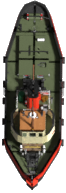
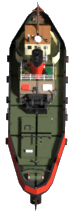
182141749 - Making nested animated components for tugs
https://www.pivotaltracker.com/story/show/182141749

diff --git a/src/components/image-components/water-churn.tsx b/src/components/image-components/water-churn.tsx
@@ -5,6 +5,8 @@ import img from "../../assets/churn-sheet.png";
 export interface WaterChurnProps {
   x: number;
   y: number;
+  play: boolean;
+  rotation: number;
 }
 
 const animationLength = 40;
@@ -18,10 +20,11 @@ for (let index = 0; index < animationLength; index++) {
 }
 const animations = {idle: frames};
 export const WaterChurn = (props: WaterChurnProps) => {
-  const { x, y } = props;
+  const { x, y, play, rotation } = props;
   const [imageTag, setImageTag] = useState<HTMLImageElement|null>(null);
 
-  const spriteRef = useRef<any>();
+  const spriteRefA = useRef<any>();
+  const spriteRefB = useRef<any>();
 
   useEffect(() => {
     const image = new window.Image();
@@ -29,23 +32,42 @@ export const WaterChurn = (props: WaterChurnProps) => {
     image.onload = () => {
       // set image only when it is loaded
       setImageTag(image);
-      spriteRef?.current?.start();
+      if(play) {
+        spriteRefA?.current?.start();
+        spriteRefB?.current?.start();
+      }
     };
   });
 
   return (
-    <Sprite
-      ref={spriteRef}
-      image={imageTag!}
-      animation="idle"
-      frameRate={7}
-      frameIndex={0}
-      animations={animations}
-      x={x}
-      y={y}
-      rotation={90}
-      scale={{x: 0.04, y: 0.04}}
-    />
+    <>
+      <Sprite
+        offset={{x: 100, y:100}}
+        ref={spriteRefA}
+        image={imageTag!}
+        animation="idle"
+        frameRate={20}
+        frameIndex={0}
+        animations={animations}
+        x={x}
+        y={y}
+        rotation={rotation}
+        scale={{x: 0.04, y: 0.04}}
+      />
+      <Sprite
+        offset={{x: 100, y:100}}
+        ref={spriteRefB}
+        image={imageTag!}
+        animation="idle"
+        frameRate={20}
+        frameIndex={20}
+        animations={animations}
+        x={x}
+        y={y}
+        rotation={rotation}
+        scale={{x: 0.04, y: 0.04}}
+      />
+    </>
     // <Image x={ x } y={y} scale={{x: 0.04, y:0.04}} image={imageTag!} />
   );
 };

diff --git a/src/components/image-components/cargo-boat.tsx b/src/components/image-components/cargo-boat.tsx
@@ -1,15 +1,52 @@
 import React from "react";
-import { Image } from "react-konva";
+import { Group, Image } from "react-konva";
 import useImage from "use-image";
 
 import img from "../../assets/boat-tops/cargo.png";
+import { WaterChurn } from "./water-churn";
+import { TugboatSlot } from "./tugboat-slot";
+import { Tugboat } from "./tugboat";
+
+const cargoBoatWidth = 751;
+const cargoHeight = 191;
 
 export interface CargoBoatProps {
   x: number;
   y: number;
+  topBoat?: "big" | "small";
+  bottomBoat?: "big" | "small";
 }
+
 export const CargoBoat = (props: CargoBoatProps) => {
-  const { x, y } = props;
+  const { x, y, topBoat, bottomBoat } = props;
   const [image] = useImage(img);
-  return (<Image x={ x } y={y} scale={{x: 0.04, y:0.04}} image={image} />);
+  const scale = 0.04;
+  const waterOffsetX = (cargoBoatWidth * -1 * scale)/2 - 2;
+  const tugOffsetX = -2;
+  let topGraphic = <TugboatSlot x={tugOffsetX} y={-10} boat="small" />;
+  let bottomGraphic = <TugboatSlot x={tugOffsetX} y={11} boat="small" />;
+  if(topBoat === "big") {
+    topGraphic = <Tugboat x={tugOffsetX} y={-7} orientation="top" size="big"/>;
+  }
+  if(topBoat === "small") {
+    topGraphic = <Tugboat x={tugOffsetX} y={-10} orientation="top" size="small"/>;
+  }
+  if(bottomBoat === "big") {
+    bottomGraphic = <Tugboat x={tugOffsetX -0.5} y={9} orientation="bottom" size="big"/>;
+  }
+  if(bottomBoat === "small") {
+    bottomGraphic = <Tugboat x={tugOffsetX} y={11} orientation="bottom" size="small"/>;
+  }
+  return (
+    <Group x={x} y={y}>
+      <WaterChurn x={waterOffsetX} y={0.5} play={true} rotation={0} />
+      <Image
+        offset={{x: cargoBoatWidth/2, y: cargoHeight/2}}
+        scale={{x: 0.04, y:0.04}}
+        image={image}
+      />
+      {topGraphic}
+      {bottomGraphic}
+    </Group>
+    );
 };

diff --git a/src/components/tugboat-stage.tsx b/src/components/tugboat-stage.tsx
@@ -5,14 +5,11 @@ import { BoatGround } from "./image-components/boat-background";
 import { CargoBoat } from "./image-components/cargo-boat";
 import { PlayIcon } from "./icons/play-icon";
 
-import "./tugboat-stage.scss";
+import "./stage.scss";
 import { IconBack } from "./icons/icon-back";
 // import useAnimationFrame from "../hooks/useAnimationFrame";
 import { MessageArea } from "./message-area";
-import { TugboatChoices } from "./image-components/tugboat-choices";
-import { TugboatSlot } from "./image-components/tugboat-slot";
-import { WaterChurn } from "./image-components/water-churn";
-import { TugboatBottom } from "./image-components/tugboat-top";
+
 
 interface TugboatStageProps {
   sceneWidth: number;
@@ -62,12 +59,7 @@ export const TugboatStage: React.FC<TugboatStageProps> = (props:TugboatStageProp
           >
             <Layer>
               <BoatGround x={0} y={0} />
-              <CargoBoat x={2} y={20} />
-              <TugboatSlot x={10} y={6} boat="small"/>
-              <TugboatSlot x={10} y={30} boat="small" />
-              <TugboatChoices x={45} y={10} />
-              <WaterChurn x={26} y={0} />
-              <TugboatBottom x={20} y={7} />
+              <CargoBoat x={20} y={25} topBoat="big" bottomBoat="big"/>
             </Layer>
         </Stage>
       </div>

diff --git a/src/components/image-components/tugboat.tsx b/src/components/image-components/tugboat.tsx
@@ -1,0 +1,42 @@
+import React from "react";
+import { Group, Image } from "react-konva";
+import useImage from "use-image";
+
+import { WaterChurn } from "./water-churn";
+
+import bottomImg from "../../assets/boat-tops/big-bottom.png";
+import topImg from "../../assets/boat-tops/big-top.png";
+const imageWidth = 70;
+const imageHeight = 200;
+
+export interface Props {
+  x: number;
+  y: number;
+  orientation: "top" | "bottom";
+  size: "big" | "small";
+}
+
+export const Tugboat = (props: Props) => {
+  const { x, y, orientation, size } = props;
+  const imageSource = orientation === "bottom" ? bottomImg : topImg;
+  const waterRotation = orientation === "bottom" ? -90 : 90;
+  const [image] = useImage(imageSource);
+
+  const boatScale = size === "big" ? 0.05 : 0.04;
+  const tugScale = {x: boatScale, y: boatScale};
+  const waterOffsetY = orientation === "bottom"
+    ? imageHeight * boatScale - 1
+    : (imageHeight * boatScale) * -1 + 1;
+  return (
+    <Group>
+      <WaterChurn x={x} y={y+waterOffsetY} play={true} rotation={waterRotation}/>
+      <Image
+        x={x}
+        y={y}
+        offset={{x: imageWidth/2, y:imageHeight/2}}
+        scale={tugScale}
+        image={image}
+      />
+    </Group>
+  );
+};

diff --git a/src/components/stage.scss b/src/components/stage.scss
@@ -2,14 +2,14 @@
 .chrome {
   background-color: #016082;
   color: white;
-  width: 100vw;
+  width: 98vw;
   display: flex;
   flex-direction: column;
   align-items: center;
   justify-content: flex-start;
   padding: 1em;
   max-width: 1024px;
-  height: 100vh;
+  padding-top: 3em;
   .toolbar {
     align-self: stretch;
     display: flex;
@@ -28,6 +28,7 @@
   aspect-ratio: 2/1;
   background-color:white;
   box-sizing: border-box;
+  overflow: hidden;
   align-self: stretch;
 }
 

diff --git a/src/components/image-components/tugboat-slot.tsx b/src/components/image-components/tugboat-slot.tsx
@@ -14,12 +14,14 @@ export const TugboatSlot = (props: TugboatSlotProps) => {
   const { x, y } = props;
   const [image] = useImage(img);
   const scale = 0.05;
-
+  const imageWidth = 124;
+  const imageHeight = 267;
   const imgScale = {x: scale, y: scale};
   return (
     <Image
       x={x}
       y={y}
+      offset= {{x: imageWidth/2, y: imageHeight/2 }}
       scale={imgScale}
       image={image}
     />

diff --git a/src/components/cart-stage.tsx b/src/components/cart-stage.tsx
@@ -8,7 +8,7 @@ import { Cart } from "./image-components/cart";
 import { PlayIcon } from "./icons/play-icon";
 import { Bam } from "./image-components/bam";
 
-import "./cart-stage.scss";
+import "./stage.scss";
 import { IconBack } from "./icons/icon-back";
 import useAnimationFrame from "../hooks/useAnimationFrame";
 import { VelocityPanel } from "./velocity-panel";

diff --git a/src/components/tugboat-app.tsx b/src/components/tugboat-app.tsx
@@ -1,7 +1,7 @@
 import React from "react";
 import { TugboatStage } from "./tugboat-stage";
 
-import "./tugboat-app.scss";
+import "./app.scss";
 
 export const TugboatApp = () => {
   return (

diff --git a/src/components/cart-app.tsx b/src/components/cart-app.tsx
@@ -1,7 +1,7 @@
 import React from "react";
 import { CartStage } from "./cart-stage";
 
-import "./cart-app.scss";
+import "./app.scss";
 
 export const CartApp = () => {
   return (
